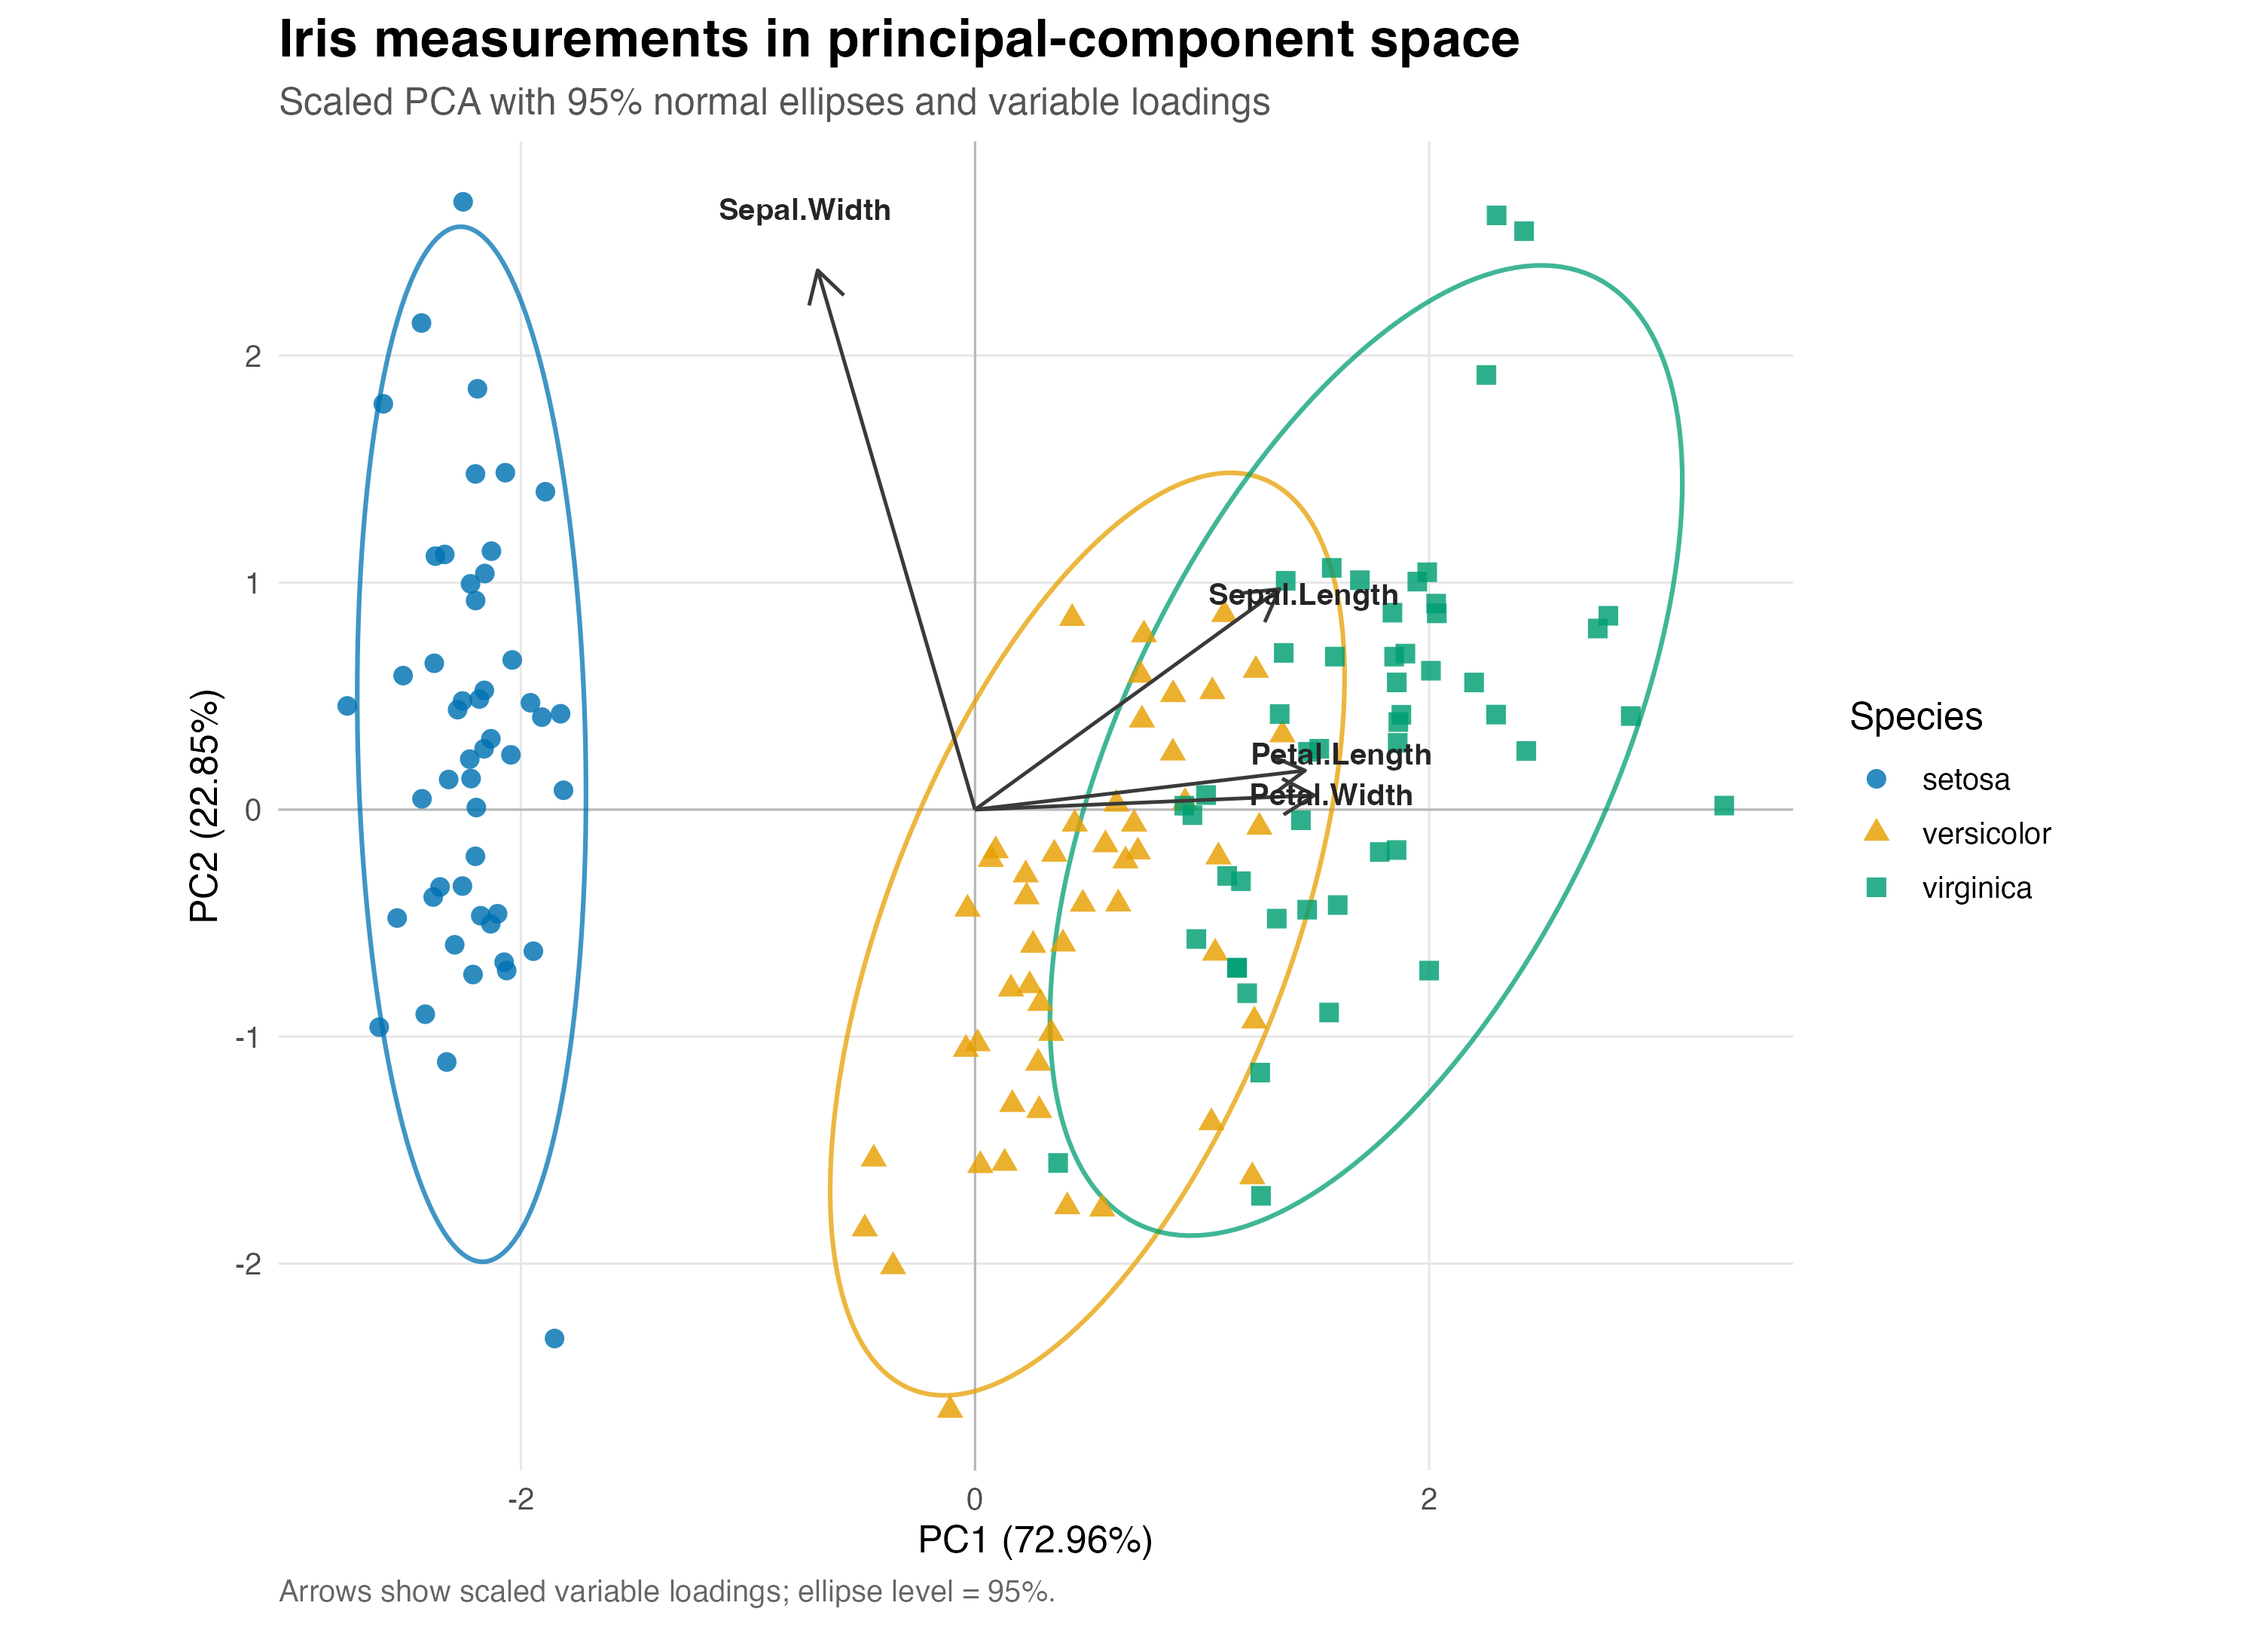
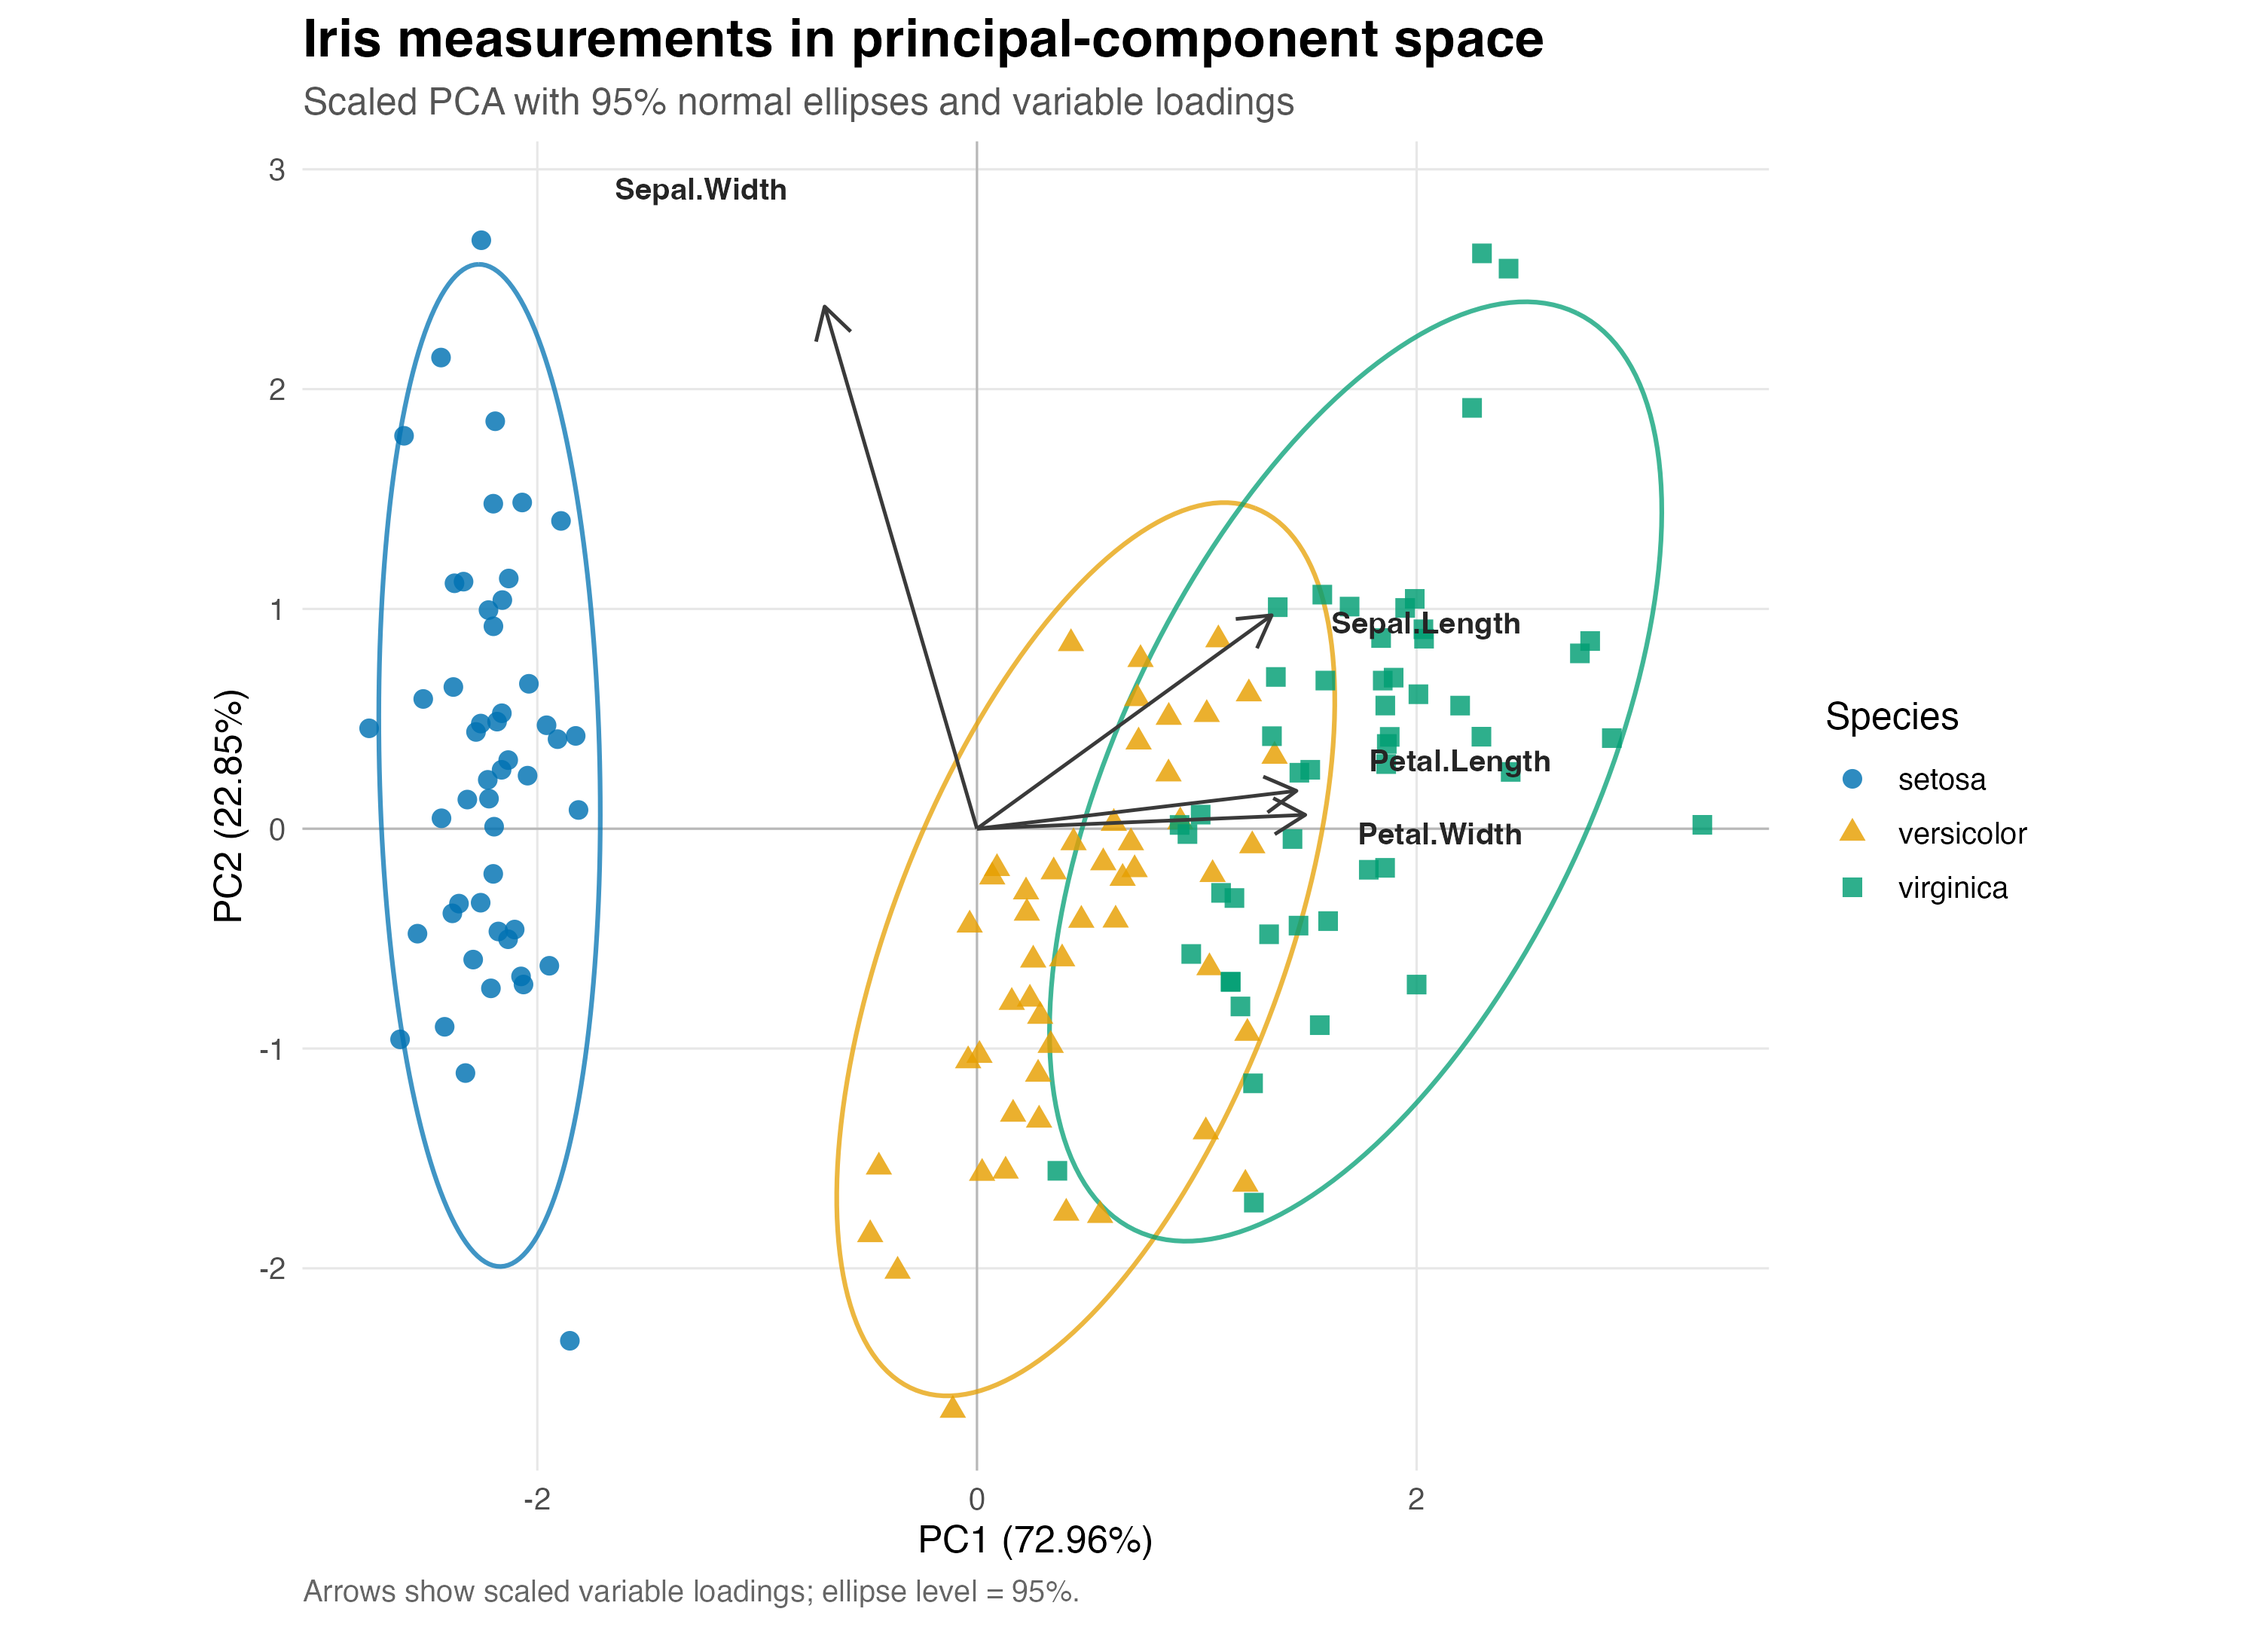
fix: make iris report browser-clean offline

diff --git a/examples/iris-pca/index.html b/examples/iris-pca/index.html
@@ -3,6 +3,7 @@
 <head>
 <meta charset="UTF-8">
 <meta name="viewport" content="width=device-width, initial-scale=1">
+<link rel="icon" href="data:,">
 <title>FigureForge Iris PCA report</title>
 <style>
 :root{color-scheme:light;--ink:#17202a;--muted:#59636e;--line:#dce3e8;--accent:#0072b2;--paper:#fff;--wash:#f3f7f9}
